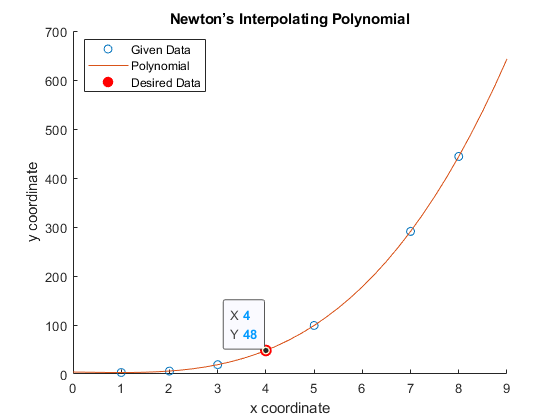
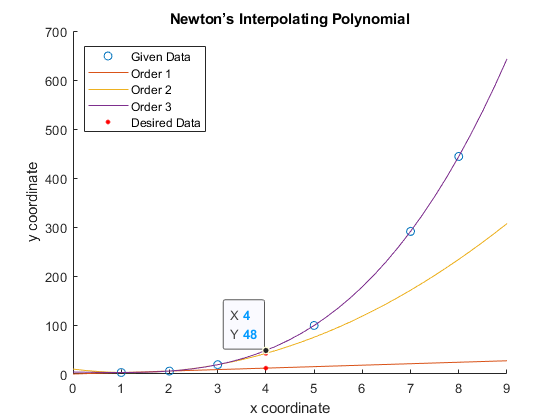
Misc: Modify HW7 Q2 and Q3 to show polynomials with different order

diff --git a/HW7/HW7_Q3.m b/HW7/HW7_Q3.m
@@ -5,8 +5,11 @@ format long;
 X = [1 2 3 5 7 8];
 Y = [3 6 19 99 291 444];
 desired_x = 4;
+yint = [];
 
-yint = Lagrange(X, Y, desired_x);
+for i = 2 : 4
+    yint = [yint Lagrange(X(1:i), Y(1:i), desired_x)];
+end
 
 %-------------------- Plot the figure --------------------%
 hold on;
@@ -15,11 +18,17 @@ hold on;
 plot(X, Y, 'o');
 
 x = 0 : 0.25 : X(length(X)) + 1;
-plot(x, Lagrange(X, Y, x));
-plot(desired_x, yint, '.', 'MarkerSize', 30, 'color', 'r');
+
+% order = points - 1, points >= 2
+% polynomials for order over 3 have the same result
+for i = 2 : 4
+    plot(x, Lagrange(X(1:i), Y(1:i), x));
+end
+
+plot(desired_x, yint, '.', 'MarkerSize', 10, 'color', 'r');
 
 % Config of figure
 title('Lagrange Interpolating Polynomial');
 xlabel('x coordinate')
 ylabel('y coordinate')
-legend('Given Data', 'Polynomial', 'Desired Data', 'location', 'best');
+legend('Given Data', 'Order 1', 'Order 2', 'Order 3', 'Desired Data', 'location', 'best');

diff --git a/HW7/HW7_Q2.m b/HW7/HW7_Q2.m
@@ -5,8 +5,11 @@ format long;
 X = [1 2 3 5 7 8];
 Y = [3 6 19 99 291 444];
 desired_x = 4;
+yint = [];
 
-yint = Newtint(X, Y, desired_x);
+for i = 2 : 4
+    yint = [yint Newtint(X(1:i), Y(1:i), desired_x)];
+end
 
 %-------------------- Plot the figure --------------------%
 hold on;
@@ -15,11 +18,17 @@ hold on;
 plot(X, Y, 'o');
 
 x = 0 : 0.25 : X(length(X)) + 1;
-plot(x, Newtint(X, Y, x));
-plot(desired_x, yint, '.', 'MarkerSize', 30, 'color', 'r');
+
+% order = points - 1, points >= 2
+% polynomials for order over 3 have the same result
+for i = 2 : 4
+    plot(x, Newtint(X(1:i), Y(1:i), x));
+end
+
+plot(desired_x, yint, '.', 'MarkerSize', 10, 'color', 'r');
 
 % Config of figure
 title('Newton’s Interpolating Polynomial');
 xlabel('x coordinate')
 ylabel('y coordinate')
-legend('Given Data', 'Polynomial', 'Desired Data', 'location', 'best');
+legend('Given Data', 'Order 1', 'Order 2', 'Order 3', 'Desired Data', 'location', 'best');
